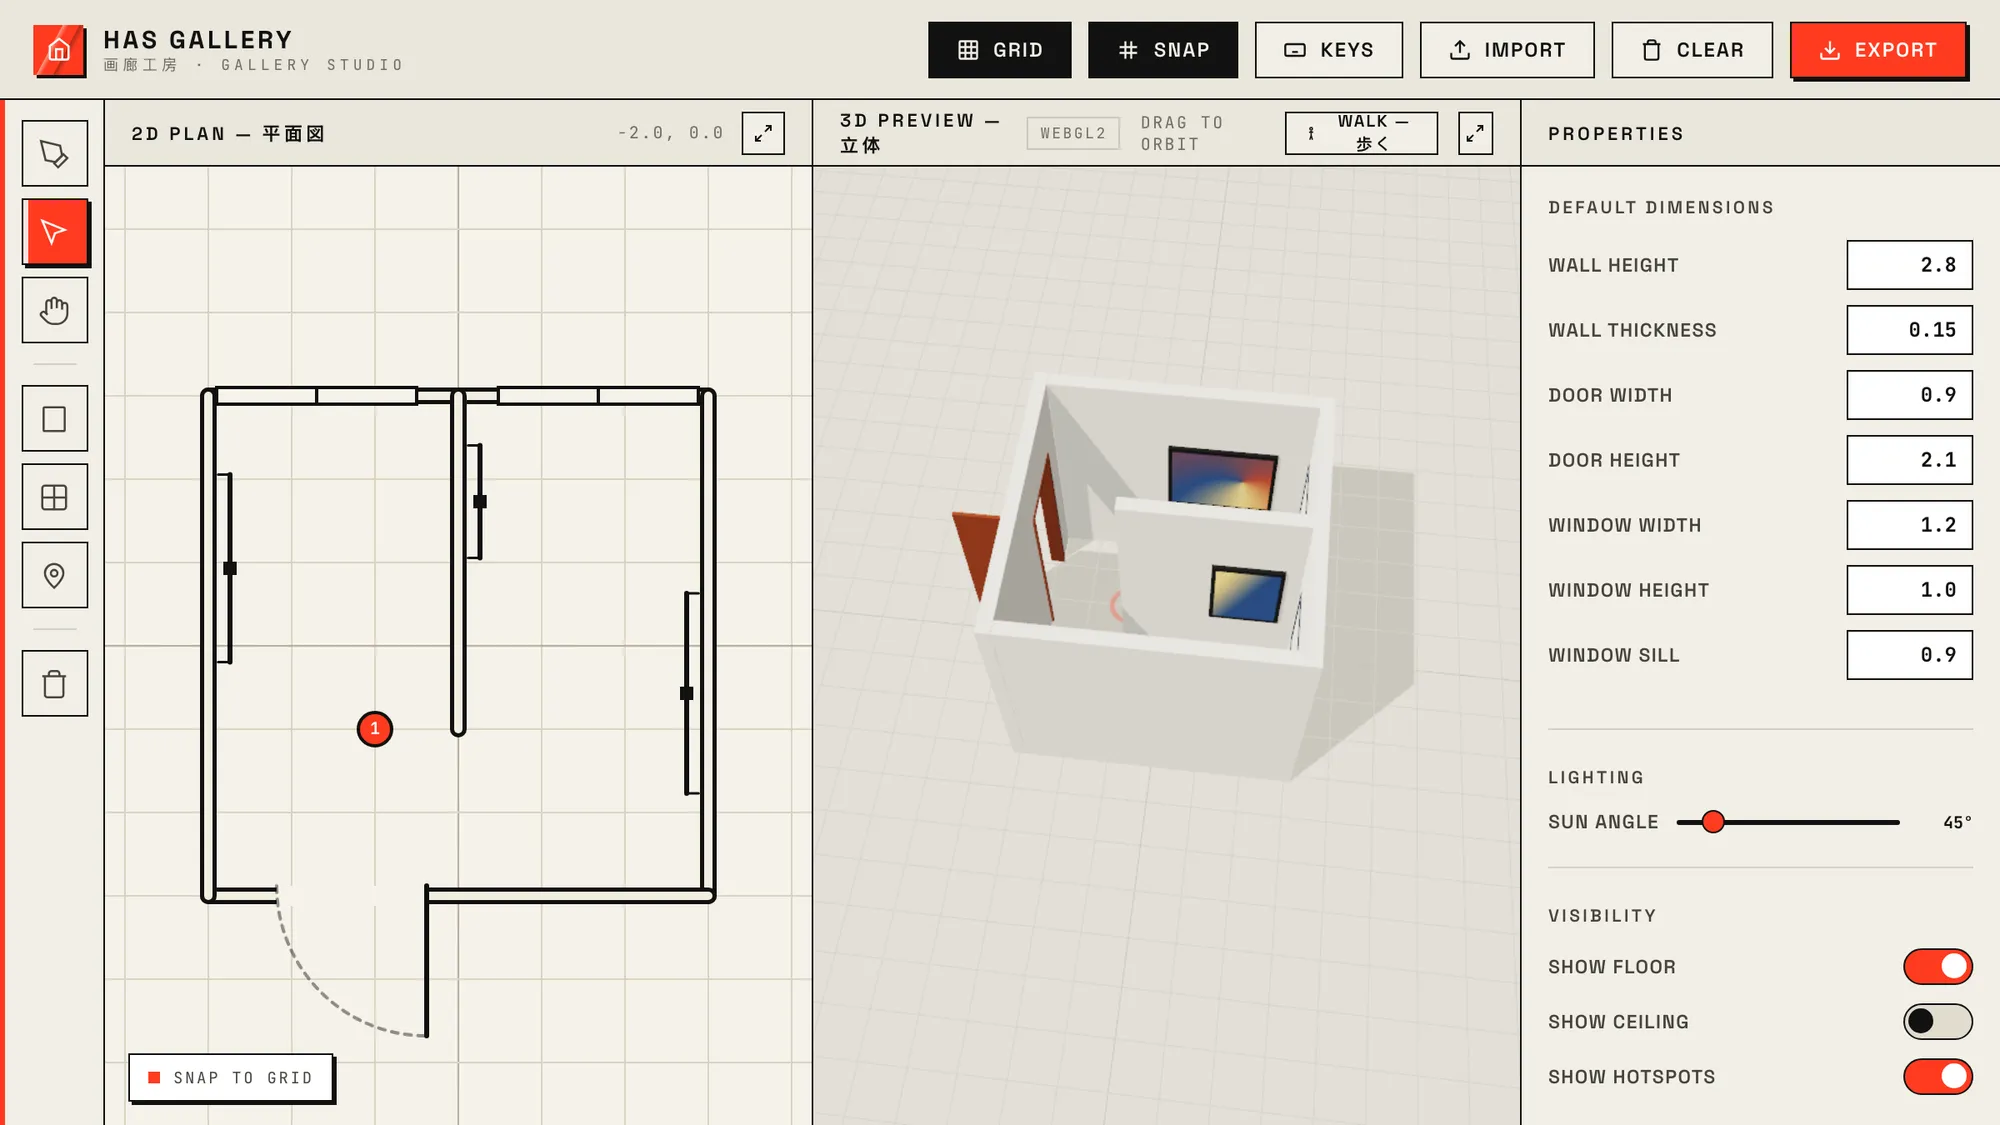
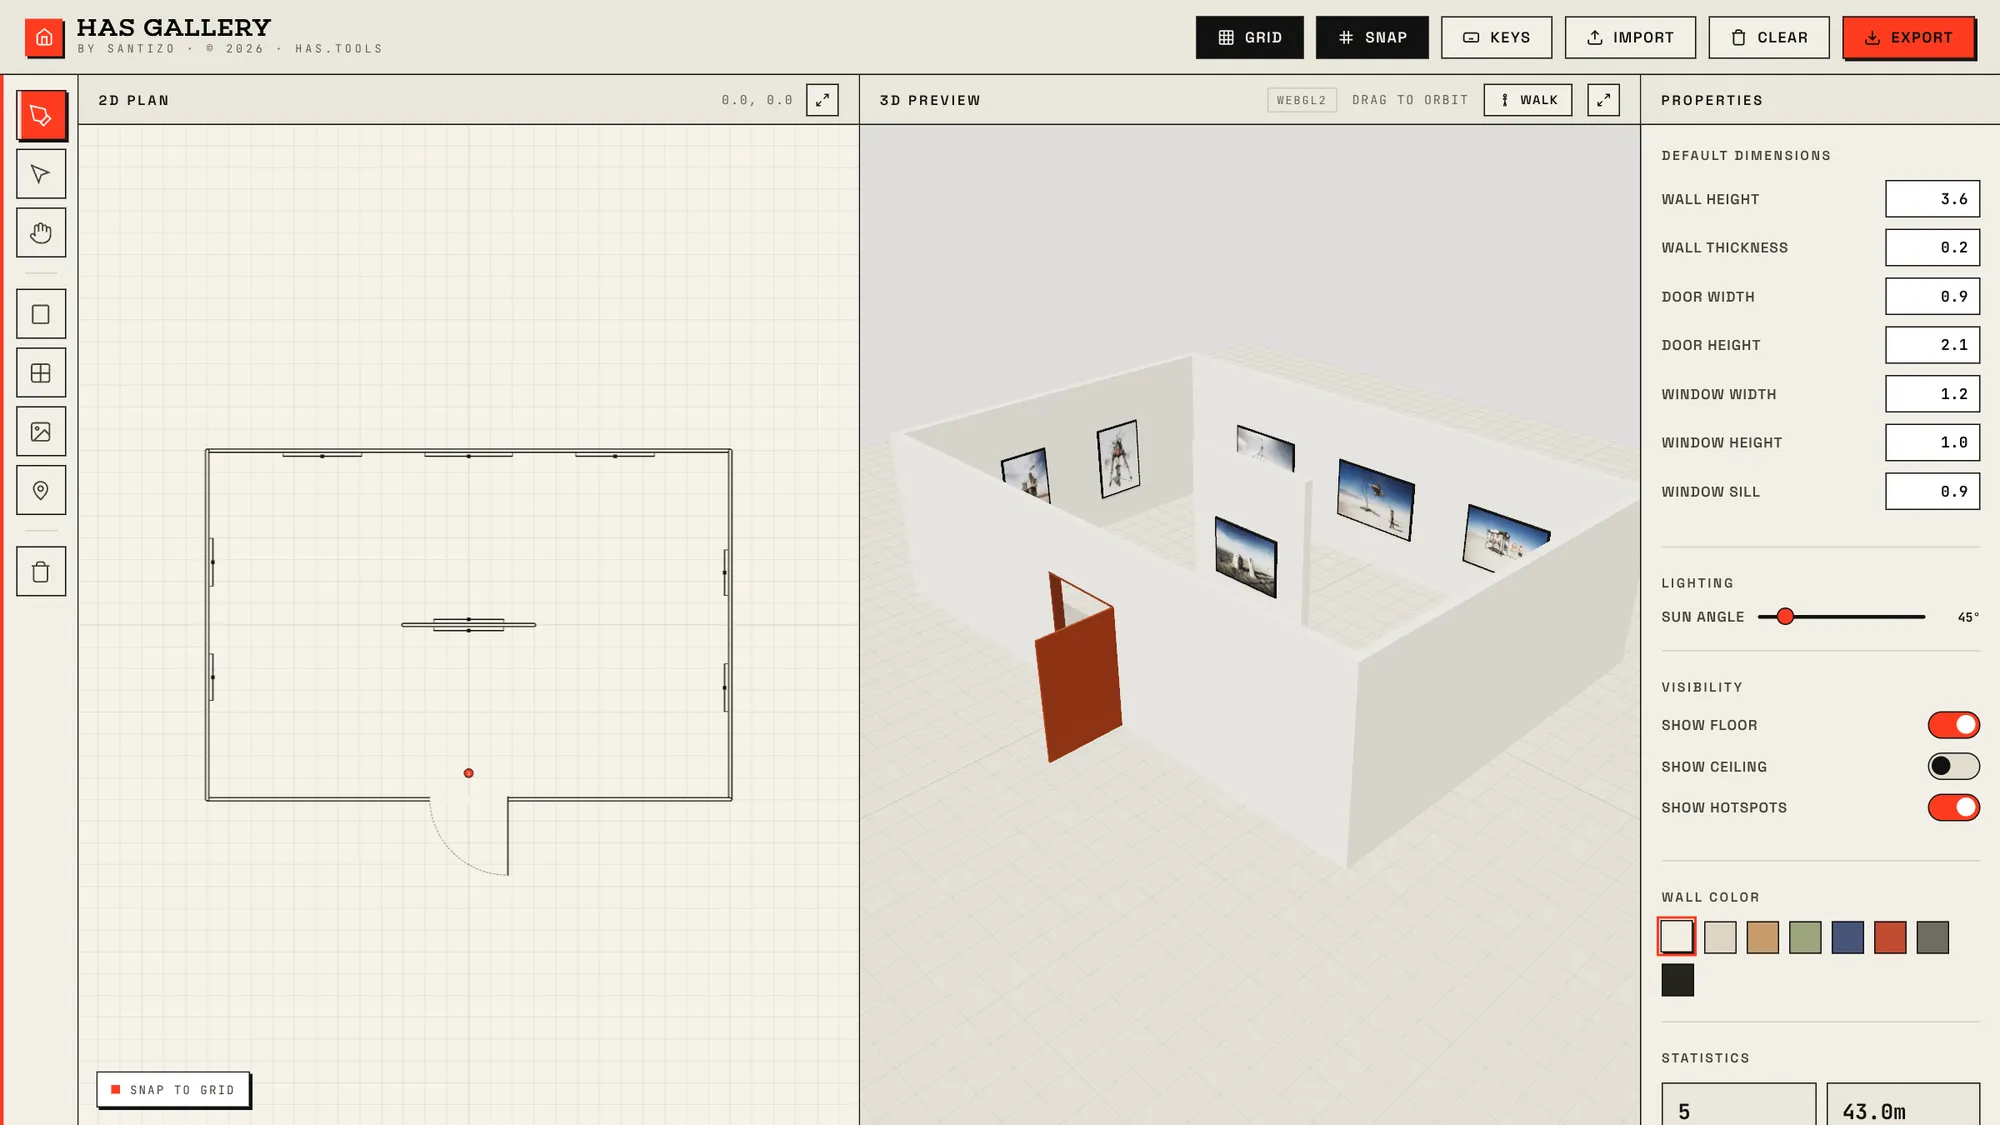
Drop the retired 轆轤 · ROKURO label: fresh app captures, copy fixed
The has.tools screenshots of HAS Lathe and HAS Gallery predate their
current interfaces and still show old Japanese labels. Lathe's figure,
card and link preview and Gallery's card are now captures of the apps
as they are today, and the Lathe case study no longer mentions the
rokuro.

Claude-Session: https://claude.ai/code/session_01TrVLkLcAAVD2Rk7NEKFhrc

diff --git a/src/data/app-pages.ts b/src/data/app-pages.ts
@@ -110,7 +110,7 @@ export const appPages: AppPage[] = [
       ] },
       { title: 'Creative Direction', paras: [
         'Strip it to the essential move: edit the section, get the vessel.',
-        'The idea is the potter’s wheel, the rokuro, and the interface carries it: the profile on one side, the turning vessel on the other, finished with a glaze.',
+        'The idea is the potter’s wheel, and the interface carries it: the profile on one side, the turning vessel on the other, finished with a glaze.',
       ] },
       { title: 'Execution', paras: [
         'A live revolve engine in the browser, built around a single profile.',

diff --git a/CLAUDE.md b/CLAUDE.md
@@ -28,8 +28,8 @@ Built with Astro (static output, no client framework). The build ships plain HTM
 - `src/scripts/site.ts`: theme toggle, Los Angeles clock, scroll reveal (`.rv`)
 - `src/scripts/reel.ts`: Play reel / Stop on the home hero (see Conventions)
 - `public/img/photos/`: WebP photos, 1200px wide, from SantizoOS `img/`
-- `public/img/apps/<app>.webp`: one 16:9 card per app (2000x1125), from the has.tools stage captures (`has-tools-website/img/<slug>-stage.png`)
-- `public/img/apps/<app>/`: each app page's images, all real app output (captured headlessly from the apps in `has-tools-website/apps/`, Oct 2026): `hero.webp` (2400x1029, 7:3; HAS Lathe uses its has.tools Vimeo loop `1213074336` instead), `app.webp` or `editor.webp` (Fig. 01, 1600x900), and two square stills (1360px). Splay: the demo drone assembled, mid-explosion and fully exploded (its own PNG export). HAS Truss: presets, profiles and finishes. HAS Sculpt: a head sculpted with scripted strokes. HAS Gallery: a plan imported as JSON, hung with the owner's Burning Man photos. HAS Lathe: `editor.webp` (has.tools `img/lathe-stage.png`), `vase-render.webp` (from `img/lathe-video-poster.jpg`), `presets.webp`
+- `public/img/apps/<app>.webp`: one 16:9 card per app (2000x1125), from the has.tools stage captures (`has-tools-website/img/<slug>-stage.png`), except HAS Lathe and HAS Gallery, which are fresh captures of the current apps: their has.tools captures show retired Japanese labels (轆轤 · ROKURO, 画廊工房, 平面図) that are no longer in the apps, so don't use them
+- `public/img/apps/<app>/`: each app page's images, all real app output (captured headlessly from the apps in `has-tools-website/apps/`, Oct 2026): `hero.webp` (2400x1029, 7:3; HAS Lathe uses its has.tools Vimeo loop `1213074336` instead), `app.webp` or `editor.webp` (Fig. 01, 1600x900), and two square stills (1360px). Splay: the demo drone assembled, mid-explosion and fully exploded (its own PNG export). HAS Truss: presets, profiles and finishes. HAS Sculpt: a head sculpted with scripted strokes. HAS Gallery: a plan imported as JSON, hung with the owner's Burning Man photos. HAS Lathe: `editor.webp` (the current app, captured Oct 2026), `vase-render.webp` (from `img/lathe-video-poster.jpg`), `presets.webp`
 - `public/img/og/`: link preview images, 1200x630: `santizo.png` (the default card: wordmark, headline, name, on the night colors), `burning-man.jpg` (photo 011), and one per app page (`has-lathe.jpg` is the editor, the others are crops of each hero)
 - `public/favicon.svg` (✷, follows the OS light/dark), `favicon.ico` (48px), `apple-touch-icon.png` (180px): the ✷ star, orange on black for the bitmap icons
 
